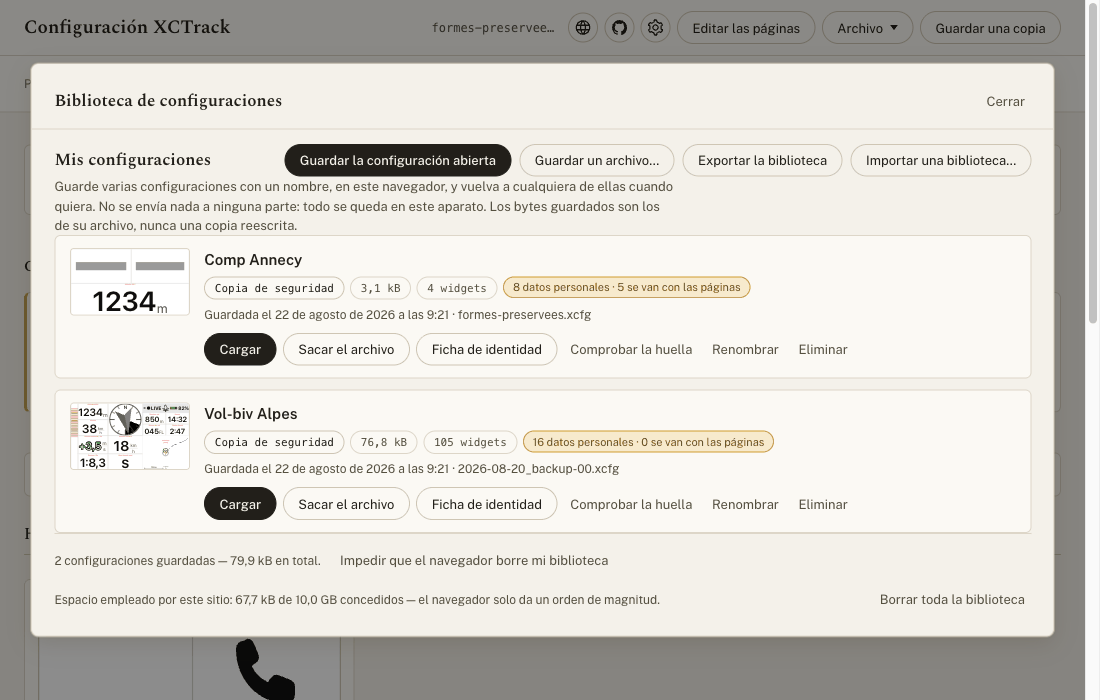
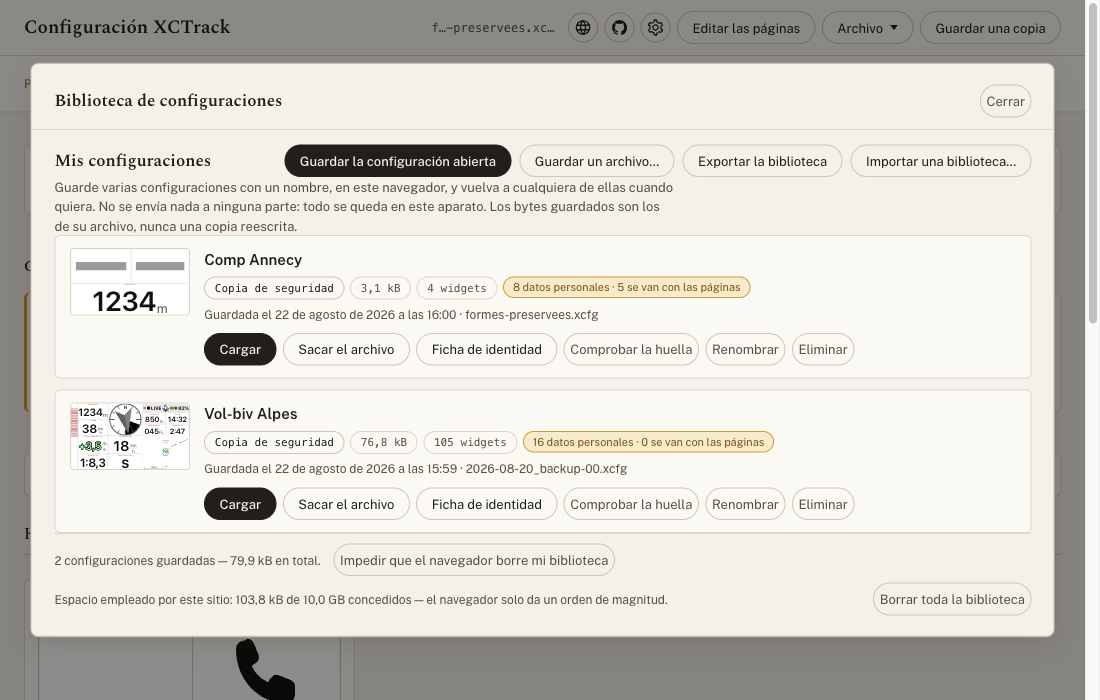
docs(captures): vingt-six images reprises, et trois cadrages qui ne tenaient plus
Une journée de correctifs avait périmé six des sept écrans. Chaque recette du README
français portait le motif ; les images, elles, montraient encore l'écran d'avant.

Ce que les images montrent maintenant :
- le filet plein rendu aux commandes discrètes — « Retirer du fichier », les fermetures
  de boîte, le pied de la bibliothèque, « Masquer la liste », « Zoom 100 % » ;
- le filet tireté des marques d'état, qui ne se cliquent pas ;
- l'emplacement du bouton de retrait sorti de la cellule : plus aucun recouvrement ;
- la plaque de faits qui s'ouvre sur « 14 gadgets » et se ferme sur le nom de classe ;
- la parenthèse « (versionCode …) » disparue du bloc des réglages non écrits ;
- le nettoyage à six cases, suivi du bloc qui nomme les trois laissés en place ;
- le bandeau d'ambre d'une page inatteignable, qui n'existait pas ce matin.

Trois cadrages ont dû changer, chacun mesuré plutôt que supposé :
- reglages-generaux 1400 × 1060 → 1400 × 1120. La colonne du bouton prend désormais la
  largeur de l'intitulé traduit : le bloc ne fait plus 949 px dans les cinq langues mais
  957 (fr, es), 994 (en, de) et 1 010 (nl). À 1060, le néerlandais perdait 22 px ;
- version-et-nettoyage 1200 × 1720 → 1200 × 1960. La boîte est plafonnée à 88 vh, pas à
  « hauteur + marge » : le contenu allemand demande 1 717 px, donc 1 951 de viewport. À
  1930 la boîte était encore rognée de 19 px ;
- panneau-gadget, allemand seul, 1400 × 1750 → 1400 × 1730. Le bandeau de la page
[…]

diff --git a/README.md b/README.md
@@ -34,17 +34,16 @@ la plaque qui la porte — est identique dans toutes.*
 <!--
   REFAIRE CETTE CAPTURE — captures/editeur-paysage.png (1500 × 1420)
 
-  ⚠ PÉRIMÉE DEPUIS LE 2026-08-22 : la plaque de faits sous le titre de la page
-               s'ouvrait sur le nom de classe du fichier — « WPEmpty », première pastille
-               de la ligne. Elle s'ouvre maintenant sur « 14 gadgets », et le nom de
-               classe la FERME, à la voix basse du gabarit d'écran. Rien d'autre n'a bougé
-               sur cet écran, et le cadrage ci-dessous reste bon. Non refaite le jour même,
-               et volontairement : d'autres chantiers écrivaient encore dans cet écran.
-
-  ⚠ ET POUR UNE SECONDE RAISON, le même jour : « ← Vue d'ensemble », « Zoom 100 % » et
-               « Masquer la liste » sont, sur cette image, trois mots sans contour. Les
-               commandes discrètes ont repris le filet plein de `.btn` — le cadrage ne
-               bouge pas, ces trois boutons ne changent que d'aspect.
+  DETTE PAYÉE le 2026-08-22, en fin de journée. L'image portait deux péremptions, toutes
+  deux visibles maintenant :
+  1. la plaque de faits sous le titre s'ouvrait sur le nom de classe du fichier
+     (« WPEmpty », première pastille). Elle s'ouvre désormais sur « 14 gadgets », et le
+     nom de classe la FERME, à la voix basse du gabarit d'écran ;
+  2. « ← Vue d'ensemble », « Zoom 100 % » et « Masquer la liste » étaient trois mots sans
+     contour ; les commandes discrètes ont repris le filet plein de `.btn`.
+  Le cadrage n'a pas bougé, et l'air entre la plaque et le bandeau a été REMESURÉ sur
+  l'image reprise : plaque jusqu'à 1 039,4 px, bandeau à partir de 1 069,9 — 30 px, comme
+  la dernière ligne de cette recette l'annonce.
 
   Écran ...... l'éditeur entier, mode consultation, panneau des gadgets ouvert.
   Langues .... UN SEUL exemplaire, en français, employé par les cinq README. Le sujet
@@ -357,26 +356,26 @@ qu'on a réglé, ou figer ce que le fichier ne dit pas.*
 
 <!--
   REFAIRE CETTE CAPTURE — captures/panneau-gadget.<langue>.png (1400 × 1650 ;
-                          1400 × 1750 pour l'allemand)
+                          1400 × 1730 pour l'allemand)
   Écran ...... l'éditeur en mode édition, panneau de réglages d'un gadget déplié.
-  ⚠ PÉRIMÉE DEPUIS LE 2026-08-22, pour TROIS raisons cumulées :
-               1. les marques d'origine du panneau (`.props__origin` — « valeur d'usine »,
-                  « réglé par vous ») portaient le filet PLEIN des boutons voisins sans se
-                  cliquer, et portent maintenant un filet TIRETÉ ;
-               2. la plaque de faits de la page ouverte commençait par le nom de classe
-                  (« WPThermalAssistant »), qui la ferme maintenant, en sourdine, après le
-                  gabarit d'écran ;
-               3. le bloc « 1 réglage que ce gadget n'écrit pas » disait « Valeurs d'usine
-                  relevées sur XCTrack 1.0.3-beta (versionCode 100030) » ; la parenthèse
-                  est partie, la phrase s'arrête au nom de version.
-               4. (2026-08-22, plus tard) le bouton « Masquer la liste » de la tête du
-                  bandeau — et toutes les commandes discrètes de l'outil — n'avaient
-                  AUCUN filet, pas même au survol, pendant que les marques voisines en
-                  portaient un tireté et visible. Elles reprennent le filet plein de
-                  `.btn`. Sur cette image, seul ce bouton-là change.
-               Le cadrage ci-dessous reste bon dans les trois cas. Non refaites le jour
-               même, et volontairement : trois chantiers écrivaient encore dans ces écrans,
-               et une capture prise à ce moment-là aurait figé un travail à mi-course.
+
+  DETTE PAYÉE le 2026-08-22, en fin de journée. Les cinq images portaient quatre
+  péremptions, toutes visibles maintenant :
+  1. les marques d'origine du panneau (`.props__origin`) portaient le filet PLEIN des
+     boutons voisins sans se cliquer, et portent un filet TIRETÉ ;
+  2. la plaque de faits de la page commençait par le nom de classe
+     (« WPThermalAssistant »), qui la ferme maintenant, en sourdine, après le gabarit ;
+  3. le bloc « 1 réglage que ce gadget n'écrit pas » disait « … XCTrack 1.0.3-beta
+     (versionCode 100030) » ; la parenthèse est partie, la phrase s'arrête au nom ;
+  4. « Masquer la liste » n'avait aucun filet ; les commandes discrètes ont repris celui
+     de `.btn`.
+  ET UN CINQUIÈME CHANGEMENT, qu'aucune de ces quatre lignes n'annonçait : la 3e page
+  PORTRAIT est INATTEIGNABLE sur cette fixture (`Display.Orientation: LANDSCAPE`), et
+  elle porte depuis le 2026-08-22 un bandeau d'ambre de deux paragraphes qui le dit, sous
+  la plaque de faits. Il entre dans le cadre et pousse la page dessinée vers le bas ; le
+  bandeau de réglages, lui, est collé au bas de la fenêtre et ne bouge pas d'un pixel —
+  c'est pourquoi le cadre des quatre autres langues n'a pas eu à changer.
+
   Langues .... CINQ exemplaires : .fr, .en, .nl, .de, .es. Le texte est le sujet.
                Ce fichier-ci ne déclare AUCUNE langue (`Display.Language` vide) : les
                noms de XCTrack suivent donc, à défaut, celle de l'interface — le globe
@@ -397,20 +396,31 @@ qu'on a réglé, ou figer ce que le fichier ne dit pas.*
                `localStorage['xcfg-editor.dock-height'] = '530'` puis recharger, ou
                tirer la poignée du bandeau vers le haut.
                ⚠ L'ALLEMAND ne tient pas dans ce cadre : ses phrases sont plus longues,
-               le panneau y demande 642 px de bandeau (`dock-height = '580'`) et
-               1 750 points de viewport. Sous 1 650, le bouton « Diesen Wert festlegen »
-               — celui que la légende promet — reste hors champ. À 1 750, le bandeau
-               recouvre juste la phrase de la règle graduée, ce qui évite de la couper
-               en deux.
+               et le panneau y demande 642 px de bandeau (`dock-height = '580'`). Mesuré
+               le 2026-08-22 à 1 650 avec un bandeau de 592 px : le panneau réclame
+               553 px pour 508 disponibles, et « Diesen Wert festlegen » — le bouton que
+               la légende promet — tombe à 1 667,9, hors champ. Avec 642 px de bandeau
+               il tient tout juste : 558 px pour 558.
+
+               CADRAGE ALLEMAND CORRIGÉ le 2026-08-22 : 1 750 → 1 730 points. Le
+               bandeau d'ambre de la page inatteignable (voir plus haut) a poussé la barre
+               d'actions du gadget sélectionné vers le bas. À 1 750, le haut du bandeau
+               de réglages tombe à 1 107,9 alors que cette barre commence à 1 095,5 :
+               huit pixels de boutons coupés en travers, un artefact que les quatre autres
+               langues n'ont pas. À 1 730, le bandeau commence à 1 087,9 et la couvre
+               entière, comme ailleurs ; le panneau tient toujours (558 pour 558,
+               « Diesen Wert festlegen » à 1 668,8 sur 1 730).
 
   ⚠ NE PAS RACCOURCIR LE CADRE (2026-08-22). Le bandeau porte désormais, en tête de son
   corps, une phrase qui paraît quand la page entière ne tient plus entre la barre de tête
-  et lui — elle dit ce que coûtent le repli et le zoom. À 1 650 points de viewport et
-  590 px de bandeau, la bande laissée à la plaque vaut environ 1 000 px pour une plaque
+  et lui — elle dit ce que coûtent le repli et le zoom. À 1 650 points de viewport et
+  590 px de bandeau, la bande laissée à la plaque vaut environ 1 000 px pour une plaque
   portrait de 617,7 : la phrase reste cachée et cette capture est intacte. Elle
-  apparaîtrait sous ~1 090 points de viewport, et changerait alors la hauteur du panneau
+  apparaîtrait sous ~1 090 points de viewport, et changerait alors la hauteur du panneau
   visible. Vérifié : les sept écrans du dépôt sont tous cadrés bien au-dessus de ce seuil,
-  AUCUNE capture n'est périmée par ce changement.
+  AUCUNE capture n'est périmée par ce changement. RE-VÉRIFIÉ sur les cinq reprises du
+  2026-08-22 : `.dock__cramped` est resté `display: none` dans les cinq langues,
+  l'allemand à 1 730 compris.
 
   RECETTE CORRIGÉE — la précédente demandait la boussole de la 1re page PAYSAGE, « la
   seule du corpus qui porte windStyle », ET le bloc des réglages non écrits dans le même
@@ -435,7 +445,7 @@ de langue se voient le mieux : ce fichier-ci déclare le français, donc les nom
 réglages restent français dans les cinq captures — seule notre prose change.*
 
 <!--
-  REFAIRE CETTE CAPTURE — captures/reglages-generaux.<langue>.png (1400 × 1060)
+  REFAIRE CETTE CAPTURE — captures/reglages-generaux.<langue>.png (1400 × 1120)
 
   DETTE PAYÉE le 2026-08-22 : les cinq images montraient des boutons « Retirer », qui
   disent maintenant « Retirer du fichier » — « Remove from the file », « Aus der Datei
@@ -445,43 +455,40 @@ réglages restent français dans les cinq captures — seule notre prose change.
   à mi-course. Ces chantiers sont clos ; les cinq images ont été reprises sur un arbre
   propre, servi depuis un export figé de HEAD (`git archive`).
 
-  ⚠ LES CINQ IMAGES SONT PÉRIMÉES DEPUIS LE 2026-08-22, ET POUR DEUX RAISONS. Elles
-  montrent un écran que le code ne produit plus. La recette, elle, reste bonne — il n'y a
-  que les photographies à reprendre.
+  DETTE PAYÉE le 2026-08-22, en fin de journée, POUR TROIS AUTRES RAISONS ENCORE. Les
+  images reprises à midi montraient un écran que le code ne produit plus :
 
-  ⚠ UNE TROISIÈME RAISON, LE MÊME JOUR, APRÈS LA DETTE PAYÉE CI-DESSUS : sur les images
-  reprises, « Retirer du fichier » n'a aucun filet — ni au repos ni au survol — pendant que
-  la marque inerte « valeur d'usine », juste à côté, en porte un tireté et visible. Deux
-  pilotes d'essai ont lu la marque comme la commande, et le second l'a mesuré : bouton
-  `rgba(0, 0, 0, 0)` à 11,5 px, marque `rgb(207, 156, 44)` à 12 px. Le bouton reprend
-  depuis le filet plein de `.btn`. Sa LARGEUR ne change pas d'un pixel — 109,3 px en
-  français, 166,6 en néerlandais, comme avant —, donc le cadrage et l'alignement des
-  36 lignes restent exactement ceux que cette recette décrit.
+  1. « Retirer du fichier » n'avait aucun filet — ni au repos ni au survol — pendant que la
+     marque inerte « valeur d'usine », juste à côté, en portait un tireté et visible. Deux
+     pilotes d'essai ont lu la marque comme la commande, et le second l'a mesuré : bouton
+     `rgba(0, 0, 0, 0)` à 11,5 px, marque `rgb(207, 156, 44)` à 12 px. Le bouton a repris
+     le filet plein de `.btn`.
 
-  Sur les images, le bouton de retrait passe SOUS la marque d'état. Ce n'était pas
-  l'émulation : `.prefs__aside` réservait une largeur écrite de 4,6 rem (73,6 px), taillée
-  pour « Retirer », et le renommage ne l'avait pas élargie. Relevé par l'agent qui a pris ces
-  images, à 1400, 1600 et 1920 points de large, à l'identique — le débordement ne dépendait
-  pas de la fenêtre ; reproduit au navigateur à 1400 points avant correction :
-      fr  « Retirer du fichier »          bouton 109,3 px — 24,5 px de recouvrement
-      es  « Quitar del archivo »          bouton 114,0 px — 29,2 px
-      en  « Remove from the file »        bouton 130,7 px — 45,9 px
-      de  « Aus der Datei entfernen »     bouton 146,0 px — 61,3 px
-      nl  « Uit het bestand verwijderen » bouton 166,6 px — 81,8 px (« verwijderen » barré
-                                                                     par la marque)
-  L'emplacement est désormais une colonne de la grille, large de l'intitulé lui-même — un
-  fantôme invisible le mesure, dans la langue affichée. APRÈS correction, mesuré de la même
-  façon (1400 points, et 700 pour l'autre bout) : 11,2 px de blanc entre le bouton et la
-  marque dans les cinq langues — c'est l'écart de colonnes de la grille, il ne dépend donc
-  pas de la fenêtre —, un seul bord droit pour les 157 lignes, et la liste garde ses 240 px
-  dans les cinq langues.
+  2. LES MARQUES ONT CHANGÉ DE TRAIT. « valeur d'usine », « absente du fichier »,
+     « réglé par vous » et la marque de donnée personnelle portaient le filet PLEIN des
+     deux boutons voisins sans se cliquer, et un pilote d'essai a cliqué dessus pour rien.
+     Elles portent un filet TIRETÉ ; les boutons gardent le plein. La pastille reste la
+     même forme : c'est le trait qui distingue, pas l'arrondi. VÉRIFIÉ sur les reprises,
+     ligne par ligne : `dashed 1px rgb(221, 214, 200)` pour « valeur d'usine » et
+     « absente du fichier », `dashed 1px rgb(207, 156, 44)` pour « réglé par vous ».
 
-  ⚠ ET UNE SECONDE RAISON, du même écran : LES MARQUES ONT CHANGÉ DE TRAIT.
-  « valeur d'usine », « absente du fichier », « réglé par vous » et la marque de donnée
-  personnelle portaient le filet PLEIN des deux boutons voisins — « Définir cette valeur »
-  et « Rétablir la valeur d'usine » — sans se cliquer, et un pilote d'essai a cliqué dessus
-  pour rien. Elles portent maintenant un filet TIRETÉ ; les boutons gardent le plein. La
-  pastille reste la même forme : c'est le trait qui distingue, pas l'arrondi.
+  3. Le bouton de retrait passait SOUS la marque d'état. Ce n'était pas l'émulation :
+     `.prefs__aside` réservait une largeur écrite de 4,6 rem (73,6 px), taillée pour
+     « Retirer », et le renommage ne l'avait pas élargie. Relevé à 1400, 1600 et 1920
+     points de large, à l'identique — le débordement ne dépendait pas de la fenêtre ;
+     reproduit au navigateur à 1400 points avant correction :
+         fr  « Retirer du fichier »          bouton 109,3 px — 24,5 px de recouvrement
+         es  « Quitar del archivo »          bouton 114,0 px — 29,2 px
+         en  « Remove from the file »        bouton 130,7 px — 45,9 px
+         de  « Aus der Datei entfernen »     bouton 146,0 px — 61,3 px
+         nl  « Uit het bestand verwijderen » bouton 166,6 px — 81,8 px (« verwijderen »
+                                                              barré par la marque)
+     L'emplacement est désormais une COLONNE DE LA GRILLE, large de l'intitulé lui-même —
+     un fantôme invisible le mesure, dans la langue affichée (`.prefs__aside[data-label]`).
+     APRÈS correction, remesuré à 1400 points sur les cinq reprises : 11,2 px de blanc
+     entre le bouton et la marque dans les CINQ langues — c'est l'écart de colonnes de la
+     grille, il ne dépend donc pas de la fenêtre —, et un seul bord droit pour toutes les
+     lignes.
 
   Écran ...... la page « Réglages généraux », mode édition.
   Langues .... CINQ exemplaires : .fr, .en, .nl, .de, .es.
@@ -502,14 +509,32 @@ réglages restent français dans les cinq captures — seule notre prose change.
                « Modifier les réglages », enfin faire défiler jusqu'à « Intégration
                Android » et caler le haut du bloc à 72 px du haut de la fenêtre — soit
                16 px sous la barre de tête collante, qui mesure 56 px.
-  Cadrage .... viewport de 1400 × 1060 points CSS, émulation comme ci-dessus.
-               ⚠ L'ALLEMAND NE DÉBORDE PAS SUR CET ÉCRAN, contrairement à deux des sept
-               autres : mesuré, le bloc fait 949 px dans les CINQ langues. C'est attendu
-               — les noms et les descriptions viennent du fichier, qui déclare le
-               français, et seuls les boutons et les marques changent de langue ; aucun
-               d'eux ne pousse une ligne sur un rang de plus. Un seul cadre suffit donc
-               aux cinq. Ne pas généraliser dans l'autre sens pour autant : c'est cet
-               écran-ci qui a été mesuré, pas l'application.
+  Cadrage .... viewport de 1400 × 1120 points CSS, émulation comme ci-dessus.
+
+               CADRAGE CORRIGÉ le 2026-08-22 : 1400 × 1060 → 1400 × 1120, et la phrase
+               qui suivait est devenue fausse le même jour. Elle disait « le bloc fait
+               949 px dans les CINQ langues ». Ce n'est plus vrai depuis que l'emplacement
+               du bouton de retrait est une colonne de la grille : la colonne prend la
+               largeur de l'intitulé traduit, la colonne des noms rétrécit d'autant, et
+               des lignes passent sur deux rangs. Remesuré, bloc `preferences_tweaks`,
+               largeur 1400, mode édition :
+                   fr  957,1 px   (bouton 109,3)
+                   es  957,1 px   (bouton 114,0)
+                   en  994,1 px   (bouton 130,7)
+                   de  994,1 px   (bouton 146,0)
+                   nl  1 010,0 px  (bouton 166,6)
+               À 1060 points, le néerlandais dépassait de 22 px et l'anglais comme
+               l'allemand de 6 : la dernière description était tranchée en pleine ligne.
+               1120 points suffisent aux cinq (72 + 1 010 = 1 082) et laissent paraître
+               le titre du bloc suivant, « Test et déboguage », ce qui dit au lecteur que
+               la liste continue.
+
+               ⚠ L'ALLEMAND NE DÉBORDE TOUJOURS PAS PLUS QUE LES AUTRES sur cet écran,
+               contrairement à deux des sept : il tient dans le cadre commun. C'est le
+               NÉERLANDAIS qui commande ici, et ce n'est pas la longueur des phrases mais
+               celle d'un seul intitulé de bouton. Les noms et les descriptions, eux,
+               viennent du fichier, qui déclare le français, et ne changent pas de langue.
+               Ne pas généraliser : c'est cet écran-ci qui a été mesuré, pas l'application.
 
   RECETTE CORRIGÉE — trois points, mesurés sur les fixtures :
   1. Le bouton ne s'appelle plus « Modifier les réglages » depuis la barre du haut : on
@@ -535,11 +560,10 @@ et la section « Enlever ce qu'une ancienne version a laissé » dépliée s
 place.](captures/version-et-nettoyage.fr.png)
 
 *Le choix de version, le diagnostic, et le nettoyage qu'il ouvre — six réglages proposés et
-trois laissés en place, sur quatre gadgets. ⚠ **Cette image est à refaire** : elle date
-d'avant la troisième serrure et montre encore neuf cases à cocher.*
+trois laissés en place, sur quatre gadgets.*
 
 <!--
-  REFAIRE CETTE CAPTURE — captures/version-et-nettoyage.<langue>.png (1200 × 1720)
+  REFAIRE CETTE CAPTURE — captures/version-et-nettoyage.<langue>.png (1200 × 1960)
   Écran ...... la modale « Version visée et compatibilité », nettoyage déplié.
   Langues .... CINQ exemplaires : .fr, .en, .nl, .de, .es.
   Fichier .... tests/fixtures/exports/2026-08-20_backup-00.xcfg
@@ -551,17 +575,31 @@ d'avant la troisième serrure et montre encore neuf cases à cocher.*
                (le nettoyage ne s'offre qu'en édition), menu « Fichier » puis
                « Version et compatibilité… », enfin déplier « Voir ces 6 réglages, et
                décocher ce que vous préférez garder ».
-  Cadrage .... viewport de 1200 × 1720 points CSS, émulation comme ci-dessus. La boîte
+  Cadrage .... viewport de 1200 × 1960 points CSS, émulation comme ci-dessus. La boîte
                ne défile alors dans aucune des cinq langues.
+
+               CADRAGE CORRIGÉ le 2026-08-22 : 1 720 → 1 960 points. Le bloc des
+               réglages laissés en place a rallongé la boîte de deux cents pixels. Et le
+               calcul est moins direct qu'il n'y paraît : `.modal__box` est plafonnée à
+               **88 vh** — mesuré, `max-height` rend 1 513,6 px à 1 720 de viewport et
+               1 724,8 px à 1 960. Il faut donc `hauteur du contenu ÷ 0,88`, jamais
+               `hauteur + une marge`. Contenus remesurés, largeur 1200, nettoyage déplié :
+                   fr / nl / es  1 656 px
+                   en            1 676 px
+                   de            1 717 px  ← c'est lui qui commande
+               1 717 ÷ 0,88 = 1 951 : 1 960 passe, et laisse 121 px de fond de part
+               et d'autre en allemand, 152 en français. Piège vérifié en chemin : à
+               1 930 la boîte allemande était encore rognée de 19 px alors que le
+               contenu semblait tenir — c'est le plafond en `vh` qui mordait, pas le
+               viewport.
   Variante ... le banc d'essai dédié montre le même module hors de l'éditeur :
                    npm run dev -- --port 5178
                    http://localhost:5178/src/ui/versionDiagnostic.demo.html
 
-  ⚠ IMAGE PÉRIMÉE — les cinq exemplaires montrent NEUF cases à cocher. Depuis le
-  22 août 2026, le nettoyage n'en propose plus que six sur cette fixture et affiche en
-  dessous un bloc « … réglages trouvés, et laissés en place » qui en nomme trois. La
-  recette ci-dessus reste bonne ; les cinq images sont à reprendre telles quelles, et le
-  cadrage est à revérifier — le bloc ajouté rallonge la boîte.
+  DETTE PAYÉE le 2026-08-22, en fin de journée : les cinq exemplaires montraient NEUF
+  cases à cocher. Le nettoyage n'en propose plus que six sur cette fixture, et affiche en
+  dessous un bloc « 3 réglages trouvés, et laissés en place » qui les nomme. Les cinq
+  images ont été reprises ; le cadrage, lui, a dû changer — voir « Cadrage » ci-dessus.
 
   RECETTE CORRIGÉE — trois points :
   1. La recette d'origine passait par le banc d'essai en expliquant que « le nettoyage
@@ -589,10 +627,15 @@ montré avant le téléchargement, pas après.*
 <!--
   REFAIRE CETTE CAPTURE — captures/enregistrer-et-partager.<langue>.png (920 × 2480)
 
-  ⚠ PÉRIMÉE DEPUIS LE 2026-08-22 : le « Fermer » en haut à droite de la boîte n'a, sur
-               ces images, aucun filet — il se lit comme un mot posé là. Toutes les
-               commandes discrètes de l'outil ont repris le filet plein de `.btn` : c'est
-               le seul objet de ce cadre qui change, et la recette ci-dessous reste bonne.
+  DETTE PAYÉE le 2026-08-22, en fin de journée : le « Fermer » en haut à droite de la
+               boîte n'avait aucun filet — il se lisait comme un mot posé là. Toutes les
+               commandes discrètes de l'outil ont repris le filet plein de `.btn` ; c'est
+               le seul objet de ce cadre qui a changé, et le cadrage n'a pas bougé.
+               Hauteurs de boîte remesurées à cette occasion, largeur 920, troisième issue
+               cochée : fr 2 080, en 2 060, es 2 099, de 2 174, nl 2 176 —
+               contre un plafond de 2 182,4 px (88 vh de 2 480). Le NÉERLANDAIS est
+               passé devant l'allemand depuis la mesure d'origine, et il ne reste que
+               6 px sous le plafond : ne pas raccourcir ce cadre sans remesurer.
 
   Écran ...... la boîte d'enregistrement, ses trois issues : « Votre configuration,
                telle qu'elle est », « Tous vos réglages, sans ce qui vous désigne » et
@@ -681,13 +724,13 @@ textes par des barres grises, parce qu'une image échappe à l'anonymisation. Et
                Les deux noms d'entrée — « Comp Annecy », « Vol-biv Alpes » — sont écrits
                à la main pour la capture ; aucun nom réel ne doit figurer ici.
 
-  ⚠ LES CINQ IMAGES SONT PÉRIMÉES DEPUIS LE 2026-08-22. Le pied de la boîte est
-  précisément ce que cette recette cadre — « Empêcher le navigateur d'effacer ma
-  bibliothèque » et « Effacer toute la bibliothèque » —, et ces deux boutons-là n'avaient
-  aucun filet : ils se lisaient comme des bouts de phrase. Ils portent maintenant le filet
-  plein de toute commande. « Supprimer », « Renommer » et « Vérifier l'empreinte », sur les
-  entrées, changent de la même façon. La recette reste bonne : ni le cadrage, ni les
-  fixtures, ni l'état ne bougent — il n'y a que les photographies à reprendre.
+  DETTE PAYÉE le 2026-08-22, en fin de journée. Le pied de la boîte est précisément ce que
+  cette recette cadre — « Empêcher le navigateur d'effacer ma bibliothèque » et « Effacer
+  toute la bibliothèque » —, et ces deux boutons-là n'avaient aucun filet : ils se lisaient
+  comme des bouts de phrase. Ils portent maintenant celui de toute commande. « Supprimer »,
+  « Renommer » et « Vérifier l'empreinte », sur les entrées, ont changé de la même façon.
+  Ni le cadrage, ni les fixtures, ni l'état n'ont bougé : la boîte fait toujours
+  1 022 × 572 px (607 en néerlandais), remesuré sur les cinq reprises.
 
   CAPTURE AJOUTÉE — la bibliothèque n'avait jamais eu de capture, alors qu'elle porte
   l'argument de vie privée le plus concret du projet : la seule image du dépôt où l'on
@@ -705,6 +748,20 @@ plutôt que par la visite guidée, et son sommaire reste à gauche pendant toute
 
 <!--
   REFAIRE CETTE CAPTURE — captures/manuel.<langue>.png (1200 × 1110)
+
+  VÉRIFIÉE ET GARDÉE le 2026-08-22, en fin de journée — la seule des sept dans ce cas.
+  Le manuel a gagné ce jour-là deux sections (« Les touches physiques… » au chapitre 8,
+  « Une fois enregistré : le reçu » au chapitre 10) et deux figures (chapitres 10 et 11) :
+  aucune n'entre dans ce cadre, qui s'arrête au milieu du chapitre 1. Le SOMMAIRE, lui,
+  ne liste que les chapitres — des `<h2>` —, et aucun chapitre n'a été ajouté : ses treize
+  entrées sont mot pour mot celles d'avant, vérifié par comparaison du bloc
+  `<nav class="manual__toc">` dans les CINQ manuels. Le bouton « Fermer le manuel » est un
+  `.btn` plein, pas une commande discrète : le filet rendu à `.btn--ghost` ne le touche
+  pas. Contrôle final, à l'image : rendu neuf comparé pixel à pixel à celui du dépôt —
+  seuls les bords des glyphes diffèrent (écart maximal de 59 sur un canal, sur les deux
+  intitulés surlignés de l'encadré), rien qui ne soit de l'anticrénelage. NE PAS refaire
+  ces cinq images « par précaution » : ce serait 470 ko de diff pour un rendu identique.
+
   Écran ...... la page « Manuel d'utilisation », en haut de son contenu.
   Langues .... CINQ exemplaires : .fr, .en, .nl, .de, .es. C'est la capture où le texte
                est le plus manifestement le sujet — c'est un mur de prose. Seule la

diff --git a/README.de.md b/README.de.md
@@ -340,8 +340,7 @@ Einstellungen“ mit seinen neun Zeilen und der aufgeklappte Abschnitt „Entfer
 gelassenen Einstellungen.](captures/version-et-nettoyage.de.png)
 
 *Die Versionswahl, die Diagnose und das Aufräumen, das sie eröffnet — sechs vorgeschlagene
-und drei stehen gelassene Einstellungen auf vier Widgets. ⚠ **Dieses Bild muss neu gemacht
-werden**: es stammt von vor der dritten Sperre und zeigt noch neun Kästchen.*
+und drei stehen gelassene Einstellungen auf vier Widgets.*
 
 ![Der Dialog „Diese Konfiguration speichern“: die drei Wege, dann das Verzeichnis der fünf
 ersetzten Texte — jeder mit seiner Seite, seinem Widget, dem durchgestrichenen alten Wert,

diff --git a/README.nl.md b/README.nl.md
@@ -330,8 +330,7 @@ op haar zes aankruisvakjes, gevolgd door de drie laten staan
 instellingen.](captures/version-et-nettoyage.nl.png)
 
 *De versiekeuze, de diagnose, en het opruimen dat eruit voortkomt — zes voorgestelde en drie
-laten staan instellingen, op vier widgets. ⚠ **Dit beeld moet opnieuw**: het dateert van
-vóór de derde grendel en toont nog negen aankruisvakjes.*
+laten staan instellingen, op vier widgets.*
 
 ![Het venster ‘Deze configuratie opslaan’: de drie uitwegen, en daarna de inventaris van de
 vijf vervangen teksten — elk met zijn pagina, zijn widget, de oude waarde doorstreept, de

diff --git a/README.es.md b/README.es.md
@@ -323,8 +323,7 @@ seguida de los tres ajustes dejados donde
 están.](captures/version-et-nettoyage.es.png)
 
 *La elección de versión, el diagnóstico y la limpieza que abre — seis ajustes propuestos y
-tres dejados donde están, en cuatro widgets. ⚠ **Esta imagen hay que rehacerla**: es
-anterior al tercer cerrojo y todavía muestra nueve casillas.*
+tres dejados donde están, en cuatro widgets.*
 
 ![El cuadro «Guardar esta configuración»: las tres salidas, y después el inventario de los
 cinco textos reemplazados — cada uno con su página, su widget, el valor antiguo tachado, el

diff --git a/README.en.md b/README.en.md
@@ -317,8 +317,7 @@ tickboxes, followed by the three settings left in
 place.](captures/version-et-nettoyage.en.png)
 
 *The version choice, the diagnosis, and the cleanup it opens — six settings offered and
-three left in place, across four widgets. ⚠ **This image needs redoing**: it predates the
-third lock and still shows nine tickboxes.*
+three left in place, across four widgets.*
 
 ![The “Save this configuration” box: the three outcomes, then the inventory of the five
 replaced texts — each with its page, its widget, the old value struck through, the new
